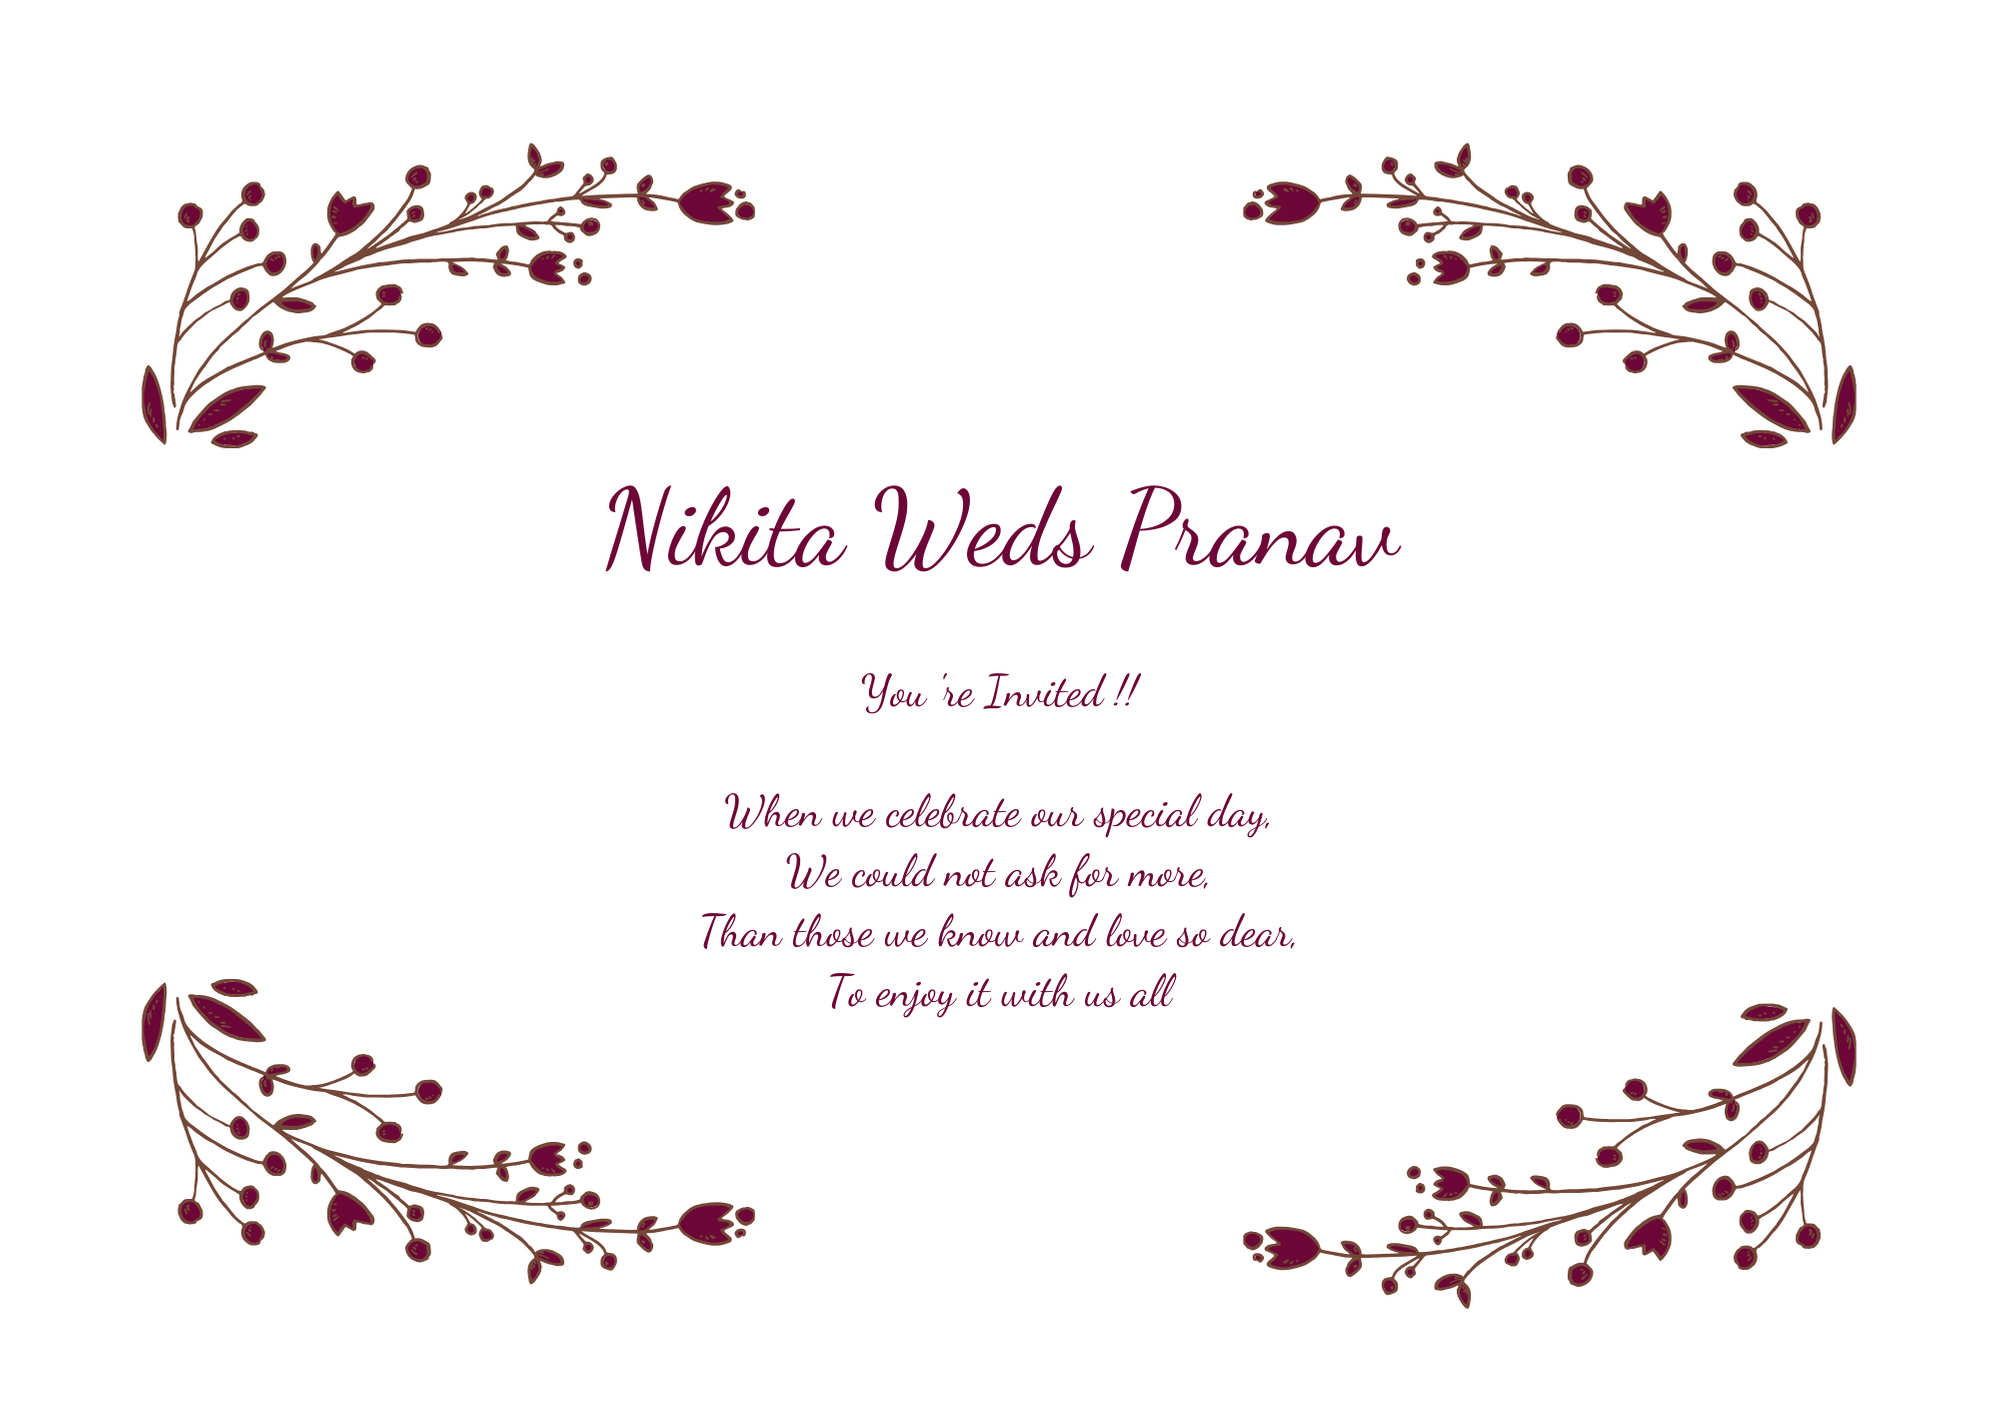
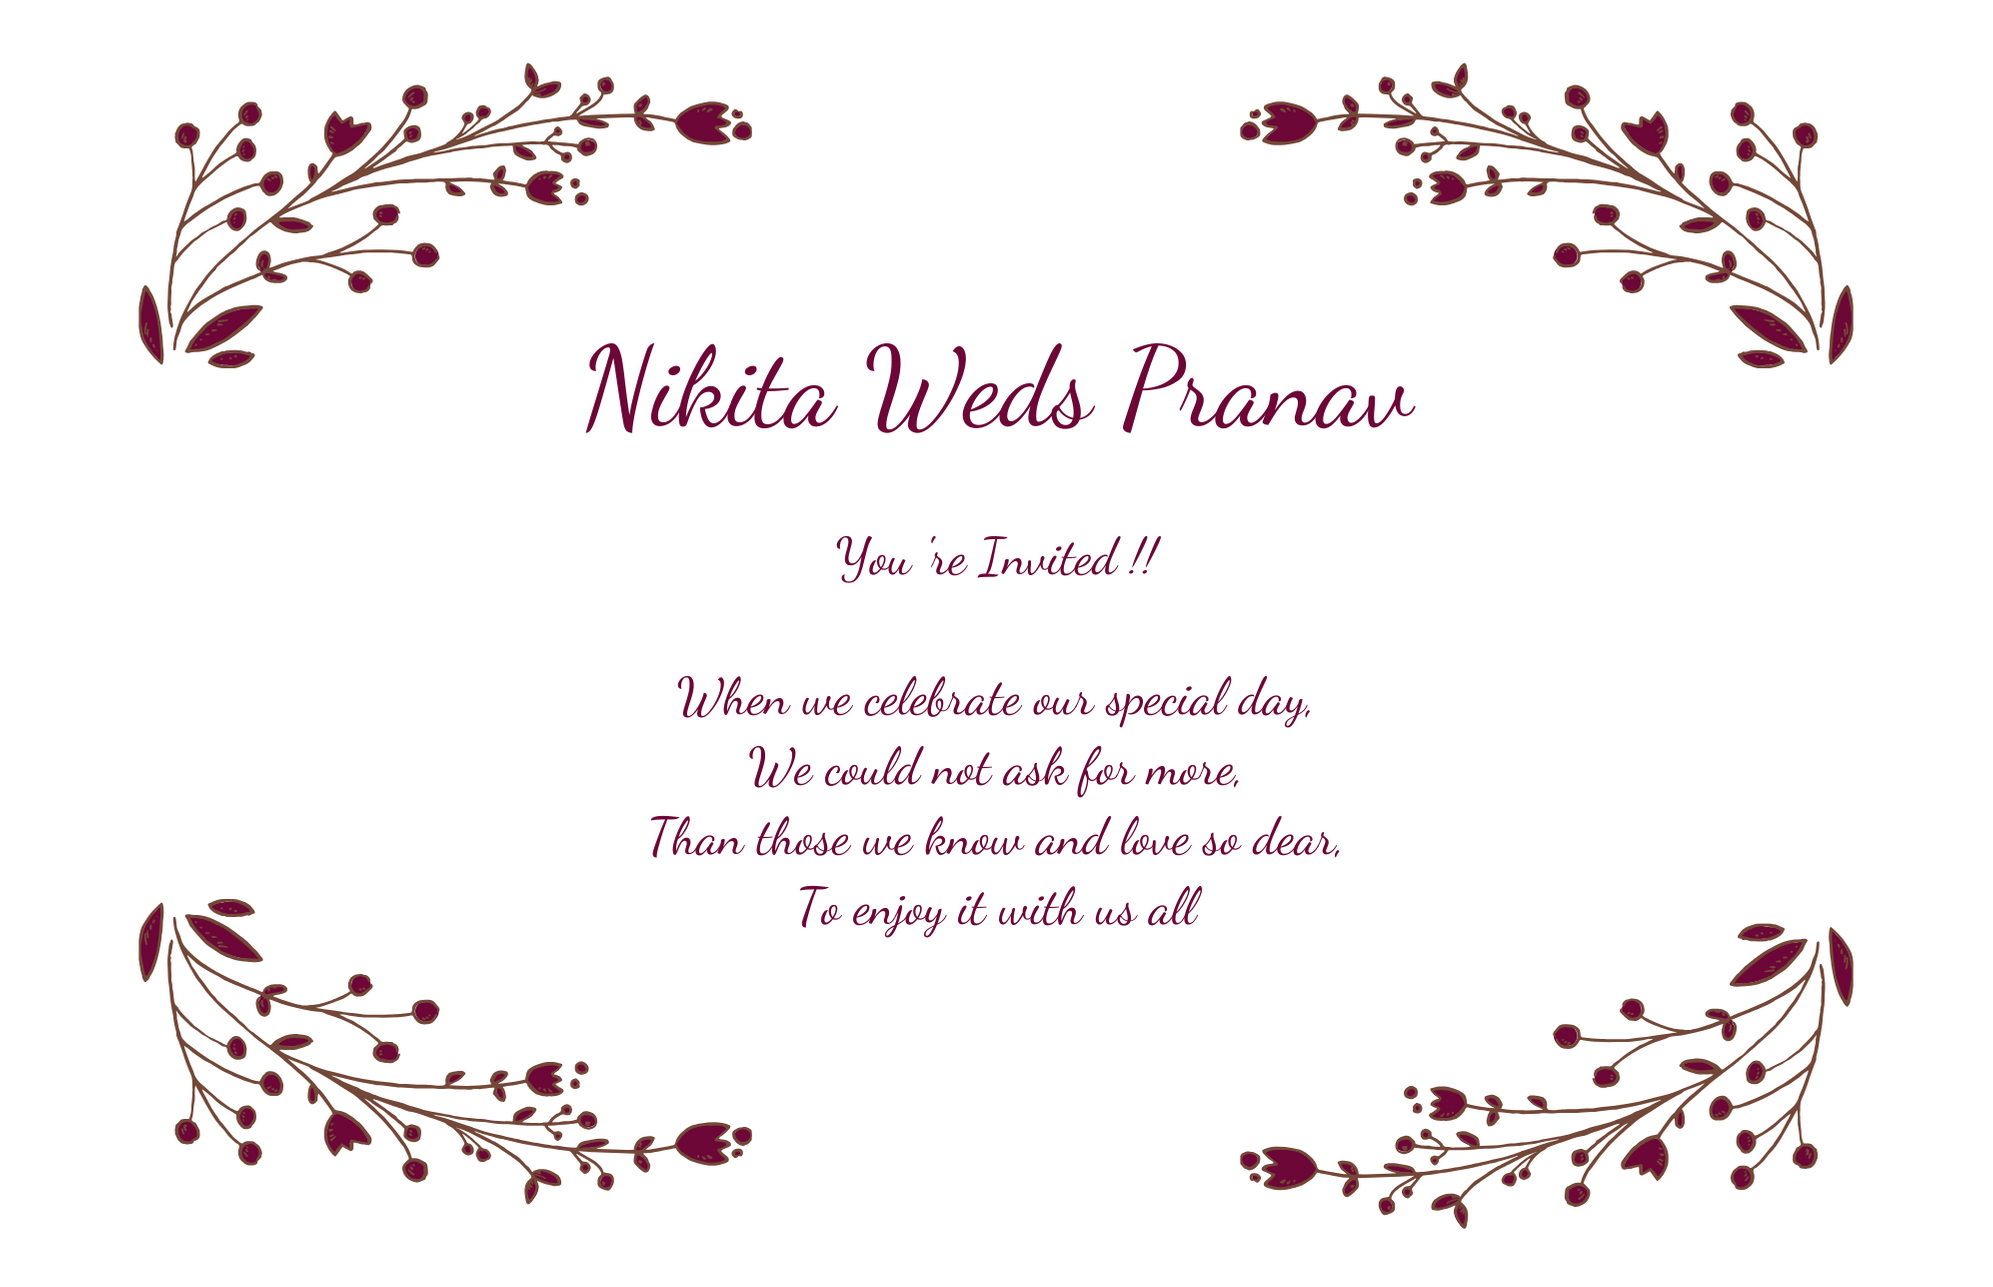
Responsive images

diff --git a/index.html b/index.html
@@ -11,7 +11,7 @@
     <title>Nikita Weds Pranav</title>
   </head>
   <body>
-    <nav class="navbar fixed-top navbar-expand-lg" role="navigation">
+    <nav class="navbar fixed-top navbar-expand-sm .d-print" role="navigation">
         <a class="navbar-brand" href="#">
             <h3>Nikita Weds Pranav</h3>
         </a>
@@ -65,14 +65,16 @@
         </div>
     </div>
 
-    <div class="padding">
-        <div class="container">
+    <div class="padding" style="padding: 0;">
             <div class="row" id="invitation">
                 <div class="col-12">
-                    <img src="./images/Invitation.png" alt="">
+                    <picture>
+                        <source srcset="./images/Invitation_small.png" media="(max-width: 400px)">
+                        <source srcset="./images/Invitation.png" style="max-width: ;">
+                        <img src="./images/Invitation.png">
+                    </picture>
                 </div>
             </div>
-        </div>
     </div>
 
     <div class="spacer"></div>
@@ -296,8 +298,8 @@
         </div>
 
     <footer class="page-footer font-small blue">
-        <div class="footer-copyright text-center py-3">© 2019 Pranav & Nikita
-            
+        <div class="footer-copyright text-center py-3">
+            © 2019 Pranav & Nikita
         </div>
     </footer>
 

diff --git a/stylesheets/style.css b/stylesheets/style.css
@@ -12,7 +12,7 @@ html, body {
 }
 
 .padding {
-    padding: 80px 0;
+    padding: 50px 0;
 }
 
 .padding img {
